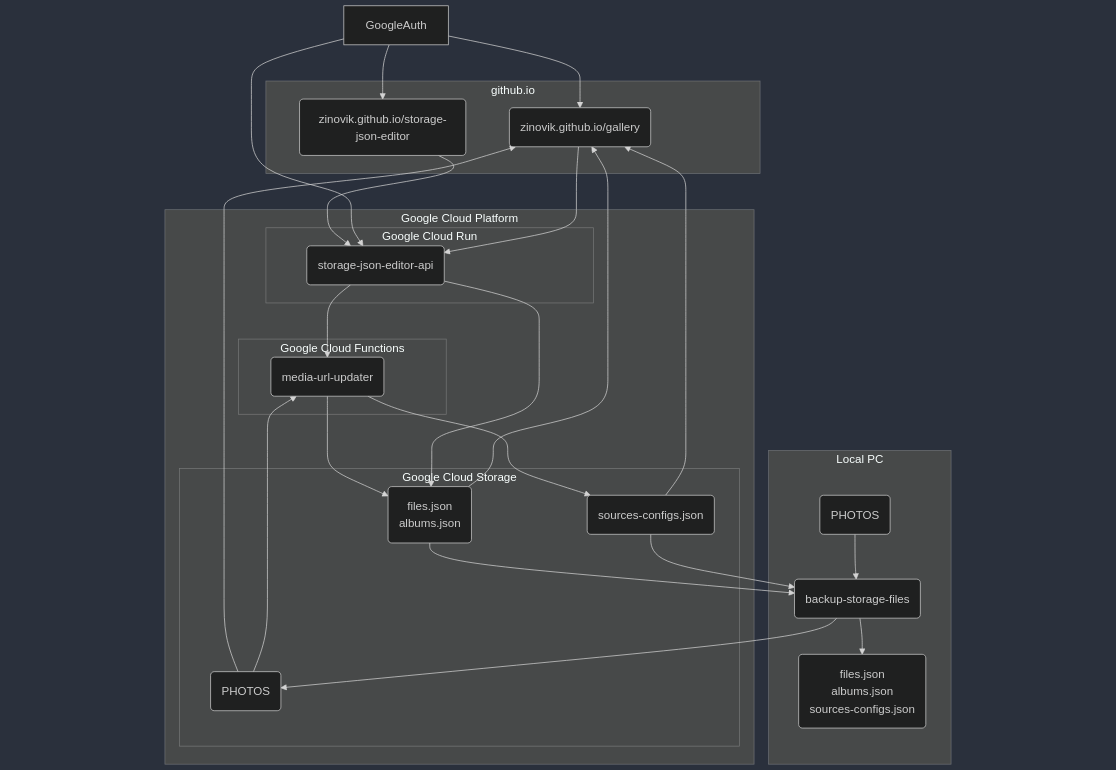
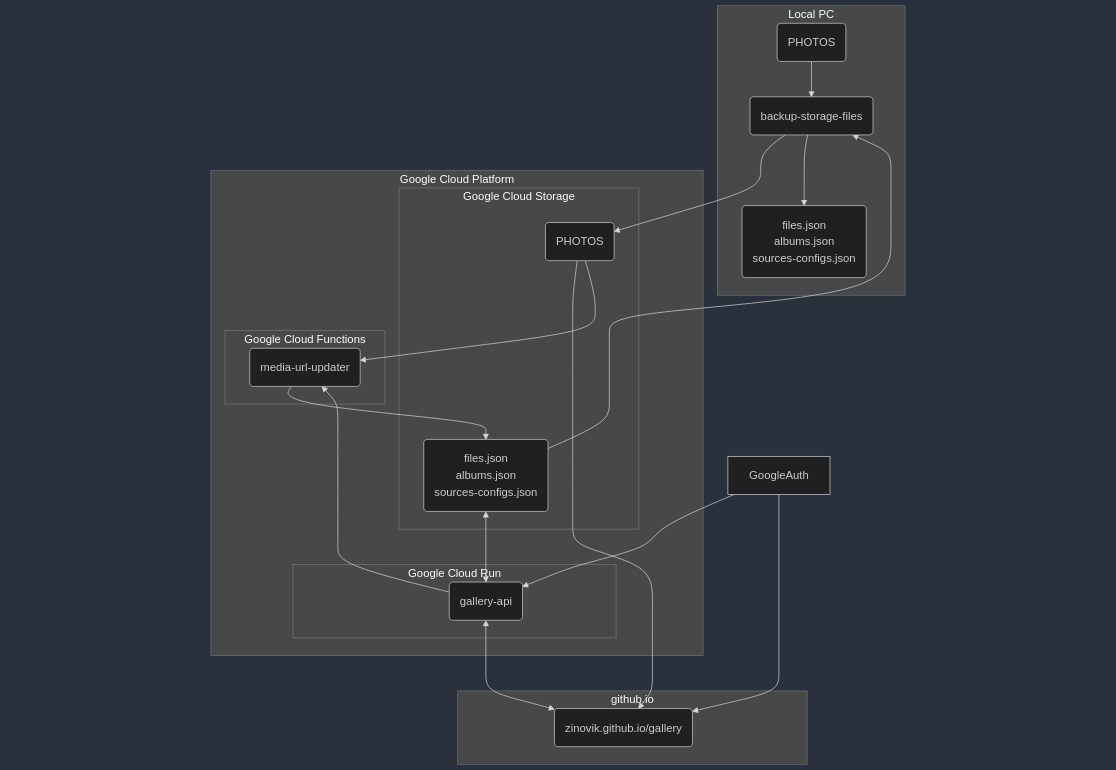
remove addedFiles, use url from files

diff --git a/src/services/files.ts b/src/services/files.ts
@@ -4,40 +4,26 @@ import {
   isThisOrChildPath,
   sortFiles,
 } from './helper';
-import { FILES_URL, SOURCES_CONFIG_URL } from '../constants';
+import { FILES_URL } from '../constants';
 import {
-  AddedFile,
   AlbumInterface,
   FileInterface,
   RemovedFile,
   UpdatedFile,
 } from '../types';
 
-type SourcesConfig = Record<string, string | undefined>;
-
-let loadedFiles: Omit<FileInterface, 'datetime' | 'url' | 'type'>[] = [];
-let sourcesConfig: SourcesConfig = {};
-let loadedAndMergedFiles: FileInterface[] = [];
+let loadedFiles: Omit<FileInterface, 'datetime' | 'type'>[] = [];
+let loadedFilesFilled: FileInterface[] = [];
 
 const loadFiles = async (): Promise<void> => {
-  const [filesResponse, sourcesConfigResponse] = await Promise.all([
-    fetch(FILES_URL),
-    fetch(SOURCES_CONFIG_URL),
-  ]);
+  const filesResponse = await fetch(FILES_URL);
 
-  [loadedFiles, sourcesConfig] = await Promise.all([
-    filesResponse.json(),
-    sourcesConfigResponse.json(),
-  ]);
+  loadedFiles = await filesResponse.json();
 };
 
-const mergeFiles = (
-  files: Omit<FileInterface, 'datetime' | 'url' | 'type'>[],
-  sourcesConfig: SourcesConfig
-) => {
+const fillFiles = (files: Omit<FileInterface, 'datetime' | 'type'>[]) => {
   const mergedFiles = files.map((file) => ({
     ...file,
-    url: sourcesConfig[file.filename] || file.filename,
     type: getFileType(file.filename),
     datetime: getDatetimeFromFilename(file.filename),
   }));
@@ -49,12 +35,12 @@ export const getFiles = async (
   path?: string,
   dateRanges?: string[][]
 ): Promise<FileInterface[]> => {
-  if (loadedAndMergedFiles.length === 0) {
+  if (loadedFilesFilled.length === 0) {
     await loadFiles();
-    loadedAndMergedFiles = mergeFiles(loadedFiles, sourcesConfig);
+    loadedFilesFilled = fillFiles(loadedFiles);
   }
 
-  return loadedAndMergedFiles.filter(
+  return loadedFilesFilled.filter(
     (file) =>
       (!path ||
         (path === '/' ? file.isTitle : isThisOrChildPath(file.path, path))) &&
@@ -71,23 +57,7 @@ export const removeFileLoaded = (removedFile: RemovedFile) => {
   loadedFiles = loadedFiles.filter(
     (file) => file.filename !== removedFile.filename
   );
-  loadedAndMergedFiles = mergeFiles(loadedFiles, sourcesConfig);
-};
-
-export const addFileLoaded = (
-  addedFile: AddedFile,
-  albums: AlbumInterface[]
-): void => {
-  loadedFiles = [
-    ...loadedFiles,
-    {
-      ...addedFile,
-      text: addedFile.text || undefined,
-    },
-  ];
-  const mergedFiles = mergeFiles(loadedFiles, sourcesConfig);
-
-  loadedAndMergedFiles = sortFiles(mergedFiles, albums);
+  loadedFilesFilled = fillFiles(loadedFiles);
 };
 
 export const updateFileLoaded = (
@@ -108,7 +78,7 @@ export const updateFileLoaded = (
         }
       : file
   );
-  const mergedFiles = mergeFiles(loadedFiles, sourcesConfig);
+  const mergedFiles = fillFiles(loadedFiles);
 
-  loadedAndMergedFiles = sortFiles(mergedFiles, albums);
+  loadedFilesFilled = sortFiles(mergedFiles, albums);
 };

diff --git a/src/services/api.ts b/src/services/api.ts
@@ -1,7 +1,6 @@
 import { API_URL, IS_LOCAL_DEVELOPMENT } from '../constants';
 import {
   AddedAlbum,
-  AddedFile,
   RemovedAlbum,
   RemovedFile,
   UpdatedAlbum,
@@ -13,25 +12,19 @@ import {
   removeAlbumLoaded,
   updateAlbumLoaded,
 } from './albums';
-import { addFileLoaded, removeFileLoaded, updateFileLoaded } from './files';
+import { removeFileLoaded, updateFileLoaded } from './files';
 
 const state = {
   email: null as string | null,
   removedAlbums: [] as RemovedAlbum[],
   removedFiles: [] as RemovedFile[],
   addedAlbums: [] as AddedAlbum[],
-  addedFiles: [] as AddedFile[],
   updatedAlbums: [] as UpdatedAlbum[],
   updatedFiles: [] as UpdatedFile[],
 };
 
 export const apiLogin = async (googleToken?: string): Promise<boolean> => {
   if (!googleToken) return false;
-
-  if (IS_LOCAL_DEVELOPMENT) {
-    state.email = 'test@email.com';
-    return true;
-  }
 
   const response = await fetch(`${API_URL}/auth/login`, {
     method: 'POST',
@@ -57,7 +50,6 @@ export const apiSend = async (): Promise<boolean> => {
     state.removedAlbums = [];
     state.removedFiles = [];
     state.addedAlbums = [];
-    state.addedFiles = [];
     state.updatedAlbums = [];
     state.updatedFiles = [];
 
@@ -77,7 +69,6 @@ export const apiSend = async (): Promise<boolean> => {
       },
       add: {
         albums: state.addedAlbums,
-        files: state.addedFiles,
       },
       update: {
         albums: state.updatedAlbums,
@@ -91,7 +82,6 @@ export const apiSend = async (): Promise<boolean> => {
     state.removedAlbums = [];
     state.removedFiles = [];
     state.addedAlbums = [];
-    state.addedFiles = [];
     state.updatedAlbums = [];
     state.updatedFiles = [];
 
@@ -117,12 +107,6 @@ export const addAddedAlbum = (addedAlbum: AddedAlbum): void => {
   state.addedAlbums.push(addedAlbum);
 
   addAlbumLoaded(addedAlbum);
-};
-
-export const addAddedFile = async (addedFile: AddedFile): Promise<void> => {
-  state.addedFiles.push(addedFile);
-
-  addFileLoaded(addedFile, await getAlbums(''));
 };
 
 export const addUpdatedAlbum = (updatedAlbum: UpdatedAlbum): void => {
@@ -173,7 +157,6 @@ export const getUpdated = () => ({
   removedAlbums: state.removedAlbums,
   removedFiles: state.removedFiles,
   addedAlbums: state.addedAlbums,
-  addedFiles: state.addedFiles,
   updatedAlbums: state.updatedAlbums,
   updatedFiles: state.updatedFiles,
 });

diff --git a/src/components/AdminAlbum.tsx b/src/components/AdminAlbum.tsx
@@ -4,7 +4,6 @@ import {
   isLoggedIn,
   addUpdatedAlbum,
   addAddedAlbum,
-  addAddedFile,
   addRemovedAlbum,
 } from '../services/api';
 import { ForceUpdateContext } from '../routers/MainRouter';
@@ -82,28 +81,6 @@ export const AdminAlbum = ({ album }: Props) => {
             }}
           >
             add album
-          </button>
-          <button
-            onClick={async () => {
-              const filename = prompt('filename');
-              if (filename === null) return;
-              const description = prompt('description');
-              if (description === null) return;
-              const newTextString = prompt('text');
-              if (newTextString === null) return;
-
-              await addAddedFile({
-                path: album.path,
-                filename,
-                description,
-                text: newTextString.includes('---')
-                  ? newTextString.split('---')
-                  : newTextString,
-              });
-              forceUpdate();
-            }}
-          >
-            add file
           </button>
           <button
             onClick={() => {

diff --git a/src/constants.ts b/src/constants.ts
@@ -3,19 +3,15 @@ export const PARAMETER_DATE_RANGES = 'date-ranges';
 
 export const IS_LOCAL_DEVELOPMENT = process.env.NODE_ENV === 'development';
 
-export const API_URL =
-  'https://gallery-api-306312319198.europe-central2.run.app';
-
-const baseUrl = IS_LOCAL_DEVELOPMENT
-  ? 'http://localhost:5000'
-  : `${API_URL}/get`;
+export const API_URL = IS_LOCAL_DEVELOPMENT
+  ? 'http://localhost:8080'
+  : 'https://gallery-api-306312319198.europe-central2.run.app';
 
 export const GOOGLE_OAUTH_PROVIDER_CLIENT_ID =
   '306312319198-u9h4e07khciuet8hnj00b8fvmq25rlj0.apps.googleusercontent.com';
 
-export const ALBUMS_URL = `${baseUrl}/albums${IS_LOCAL_DEVELOPMENT ? '.json' : ''}`;
-export const FILES_URL = `${baseUrl}/files${IS_LOCAL_DEVELOPMENT ? '.json' : ''}`;
-export const SOURCES_CONFIG_URL = `${baseUrl}/sources-config${IS_LOCAL_DEVELOPMENT ? '.json' : ''}`;
+export const ALBUMS_URL = `${API_URL}/get/albums`;
+export const FILES_URL = `${API_URL}/get/files`;
 
 export enum FileType {
   image = 'image',

diff --git a/src/components/AdminChanges.tsx b/src/components/AdminChanges.tsx
@@ -14,7 +14,6 @@ export const AdminChanges = () => {
     removedAlbums,
     removedFiles,
     addedAlbums,
-    addedFiles,
     updatedAlbums,
     updatedFiles,
   } = getUpdated();
@@ -24,7 +23,6 @@ export const AdminChanges = () => {
       {(removedAlbums.length !== 0 ||
         removedFiles.length !== 0 ||
         addedAlbums.length !== 0 ||
-        addedFiles.length !== 0 ||
         updatedAlbums.length !== 0 ||
         updatedFiles.length !== 0) && (
         <>
@@ -36,9 +34,6 @@ export const AdminChanges = () => {
           ))}
           {addedAlbums.map((album) => (
             <div>{`Album ADD: ${album.pathPart} | ${album.title} | ${album.text}`}</div>
-          ))}
-          {addedFiles.map((file) => (
-            <div>{`File ADD: ${file.filename} | ${file.path} | ${file.description} | ${file.text}`}</div>
           ))}
           {updatedAlbums.map((album) => (
             <div>{`Album UPDATE: ${JSON.stringify(album)}`}</div>

diff --git a/src/types/index.ts b/src/types/index.ts
@@ -14,13 +14,6 @@ export interface AddedAlbum {
   relation: 'after' | 'before' | 'in';
 }
 
-export interface AddedFile {
-  path: string;
-  filename: string;
-  description: string;
-  text: string | string[];
-}
-
 export interface UpdatedAlbum {
   path: string;
   newPath?: string;

diff --git a/README.md b/README.md
@@ -5,7 +5,6 @@ flowchart TB
 
     subgraph github.io
         Gallery(zinovik.github.io/gallery)
-        StorageJsonEditor(zinovik.github.io/storage-json-editor)
     end
 
     subgraph Local PC
@@ -16,46 +15,38 @@ flowchart TB
 
     subgraph Google Cloud Platform
         subgraph Google Cloud Storage
-            faStorage(files.json<br/>albums.json)
-            sStorage(sources-configs.json)
+            fasStorage(files.json<br/>albums.json<br/>sources-configs.json)
             PhotosStorage(PHOTOS)
+        end
+        subgraph Google Cloud Run
+            GalleryApi(gallery-api)
         end
         subgraph Google Cloud Functions
             MediaUrlUpdater(media-url-updater)
-        end
-        subgraph Google Cloud Run
-            StorageJsonEditorApi(storage-json-editor-api)
         end
     end
 
     GoogleAuth
 
     PhotosLocal --> Backup
-    faStorage --> Backup
-    sStorage --> Backup
+    fasStorage --> Backup
     Backup --> PhotosStorage
     Backup --> fasLocal
 
-    StorageJsonEditor --> StorageJsonEditorApi
     GoogleAuth --> Gallery
-    GoogleAuth --> StorageJsonEditor
-    GoogleAuth --> StorageJsonEditorApi
+    GoogleAuth --> GalleryApi
 
-    faStorage --> Gallery
-    sStorage --> Gallery
+    fasStorage <--> GalleryApi
     PhotosStorage --> Gallery
 
-    Gallery --> StorageJsonEditorApi
-    StorageJsonEditorApi --> MediaUrlUpdater
+    GalleryApi <--> Gallery
+    GalleryApi --> MediaUrlUpdater
 
     PhotosStorage --> MediaUrlUpdater
-    MediaUrlUpdater --> faStorage
-    MediaUrlUpdater --> sStorage
-
-    StorageJsonEditorApi --> faStorage
+    MediaUrlUpdater --> fasStorage
 ```
 
-This application requires 3 files:
+This application requires 2 files:
 
 **ALBUMS_URL** - an array of albums:
 
@@ -80,12 +71,6 @@ interface FileInterface {
   text?: string | string[];
   isVertical?: true;
 }
-```
-
-**SOURCES_CONFIG_URL** - an object with the file sources:
-
-```typescript
-type SourcesConfig = Record<string, string | undefined>;
 ```
 
 ### create bucket, setup cors, check the bucket's cors:
